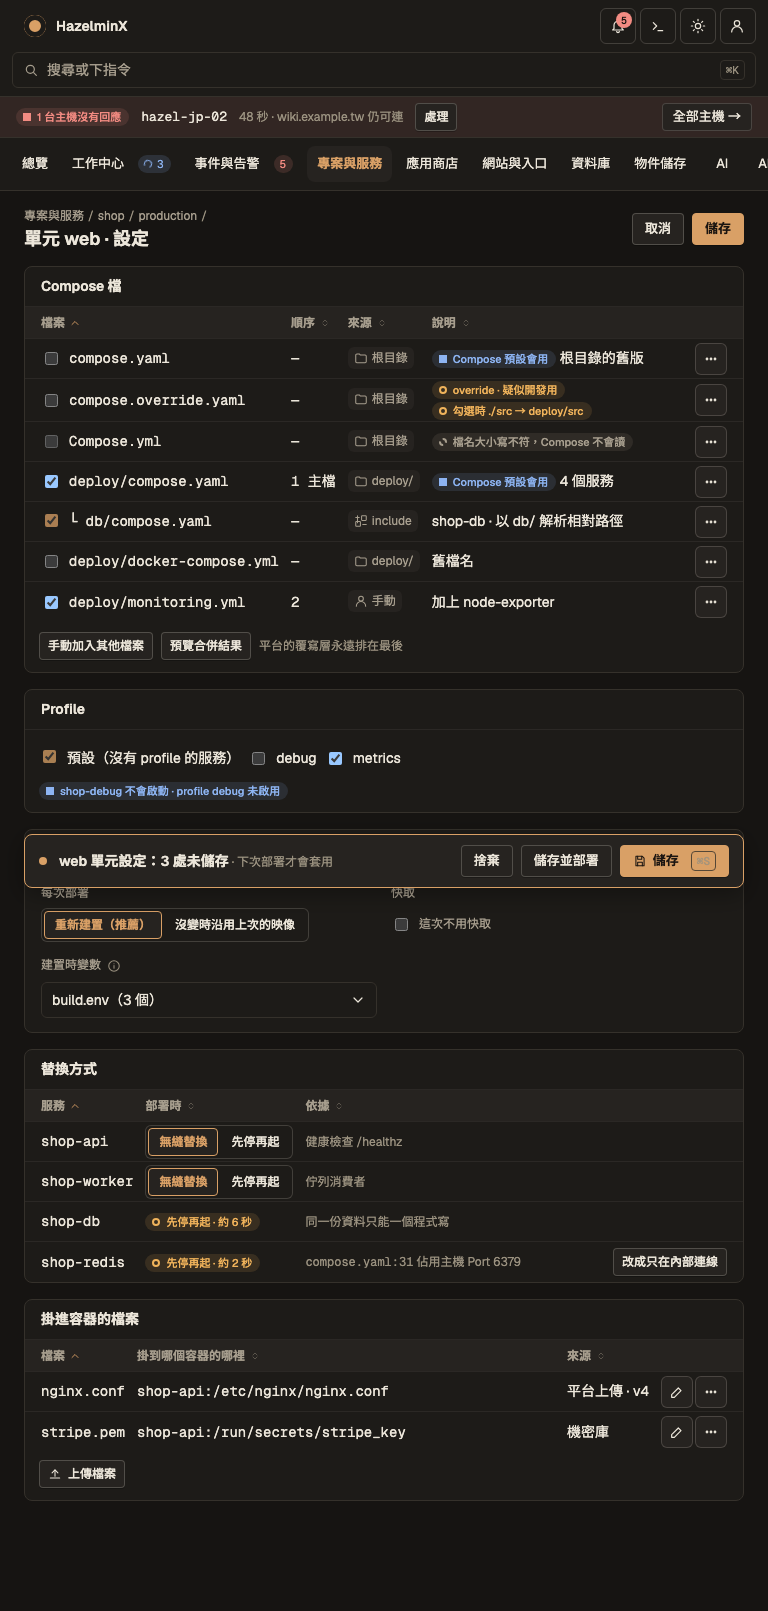
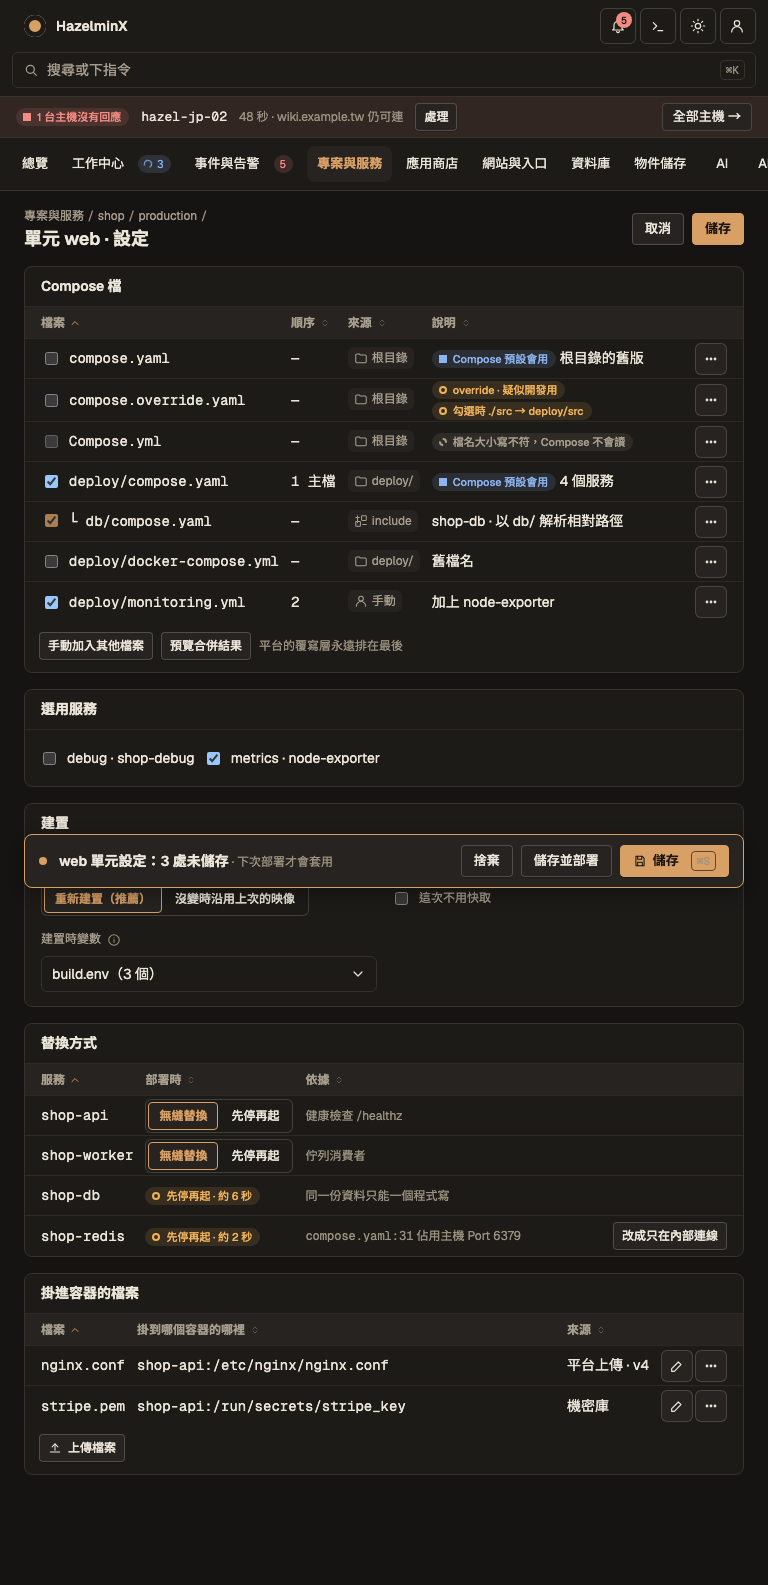
design: present Compose profiles as optional services

diff --git a/design/screens/UnitConfig.dc.html b/design/screens/UnitConfig.dc.html
@@ -505,10 +505,9 @@ body{margin:0}
       <div class="row r0"><span class="wrap" style="flex-wrap:nowrap"><span tabindex="0" data-tip="隨主檔一起載入，不能單獨取消"><input type="checkbox" class="lockck" checked aria-disabled="true" tabindex="-1" aria-label="└ db/compose.yaml：隨主檔一起載入，不能單獨取消"></span><span class="mono">└ db/compose.yaml</span></span><span class="mono">—</span><span><span class="at " tabindex="0" role="img" aria-label="由 deploy/compose.yaml 的 include 帶入，不能另外勾選" data-tip="由 deploy/compose.yaml 的 include 帶入，不能另外勾選"><svg viewBox="0 0 24 24" width="14" height="14" fill="none" stroke="currentColor" stroke-width="1.8" stroke-linecap="round" stroke-linejoin="round" aria-hidden="true"><path d="M6 3v12M3 6h6M15 18h6"/><rect x="13" y="3" width="8" height="8" rx="1"/><rect x="3" y="13" width="8" height="8" rx="1"/></svg><span>include</span></span></span><span class="c3">shop-db · 以 db/ 解析相對路徑</span><span><span class="acts"><button type="button" class="ib" aria-label="更多" title="更多"><svg viewBox="0 0 24 24" width="16" height="16" fill="none" stroke="currentColor" stroke-width="1.8" stroke-linecap="round" stroke-linejoin="round" aria-hidden="true"><circle cx="6" cy="12" r="1.2"/><circle cx="12" cy="12" r="1.2"/><circle cx="18" cy="12" r="1.2"/></svg></button></span></span></div>
       <div class="row r0"><span class="wrap" style="flex-wrap:nowrap"><input type="checkbox" aria-label="使用 deploy/docker-compose.yml"><span class="mono">deploy/docker-compose.yml</span></span><span class="mono">—</span><span><span class="at " tabindex="0" role="img" aria-label="掃描到 · deploy/" data-tip="掃描到 · deploy/"><svg viewBox="0 0 24 24" width="14" height="14" fill="none" stroke="currentColor" stroke-width="1.8" stroke-linecap="round" stroke-linejoin="round" aria-hidden="true"><path d="M3 7a2 2 0 0 1 2-2h4l2 2h8a2 2 0 0 1 2 2v9a2 2 0 0 1-2 2H5a2 2 0 0 1-2-2V7z"/></svg><span>deploy/</span></span></span><span class="c3">舊檔名</span><span><span class="acts"><button type="button" class="ib" aria-label="更多" title="更多"><svg viewBox="0 0 24 24" width="16" height="16" fill="none" stroke="currentColor" stroke-width="1.8" stroke-linecap="round" stroke-linejoin="round" aria-hidden="true"><circle cx="6" cy="12" r="1.2"/><circle cx="12" cy="12" r="1.2"/><circle cx="18" cy="12" r="1.2"/></svg></button></span></span></div>
       <div class="row r0"><span class="wrap" style="flex-wrap:nowrap"><input type="checkbox" checked aria-label="使用 deploy/monitoring.yml"><span class="mono">deploy/monitoring.yml</span></span><span class="mono">2</span><span><span class="at " tabindex="0" role="img" aria-label="手動加入 · 檔名不在 Compose 預設的 8 個裡，掃描不會找到" data-tip="手動加入 · 檔名不在 Compose 預設的 8 個裡，掃描不會找到"><svg viewBox="0 0 24 24" width="14" height="14" fill="none" stroke="currentColor" stroke-width="1.8" stroke-linecap="round" stroke-linejoin="round" aria-hidden="true"><circle cx="12" cy="8" r="4"/><path d="M4 21a8 8 0 0 1 16 0"/></svg><span>手動</span></span></span><span class="c3">加上 node-exporter</span><span><span class="acts"><button type="button" class="ib" aria-label="更多" title="更多"><svg viewBox="0 0 24 24" width="16" height="16" fill="none" stroke="currentColor" stroke-width="1.8" stroke-linecap="round" stroke-linejoin="round" aria-hidden="true"><circle cx="6" cy="12" r="1.2"/><circle cx="12" cy="12" r="1.2"/><circle cx="18" cy="12" r="1.2"/></svg></button></span></span></div></div>
-      <div style="padding:10px 14px 12px" class="wrap"><button type="button" class="btn sm">手動加入其他檔案</button><button type="button" class="btn sm">預覽合併結果</button><span class="note">平台的覆寫層永遠排在最後</span></div></section><div class="cg"><section class="panel"><div class="ph"><h2>Profile</h2></div>
+      <div style="padding:10px 14px 12px" class="wrap"><button type="button" class="btn sm">手動加入其他檔案</button><button type="button" class="btn sm">預覽合併結果</button><span class="note">平台的覆寫層永遠排在最後</span></div></section><div class="cg"><section class="panel"><div class="ph"><h2>選用服務</h2></div>
       <div style="padding:12px 14px;display:flex;flex-direction:column;gap:8px">
-        <div class="wrap"><label style="display:flex;gap:8px;align-items:center;min-height:32px"><span tabindex="0" data-tip="沒有 profile 的服務一定會啟動"><input type="checkbox" class="lockck" checked aria-disabled="true" tabindex="-1" aria-label="預設（沒有 profile 的服務）（沒有 profile 的服務一定會啟動）"></span>預設（沒有 profile 的服務）</label><label style="display:flex;gap:8px;align-items:center;min-height:32px"><input type="checkbox">debug</label><label style="display:flex;gap:8px;align-items:center;min-height:32px"><input type="checkbox" checked>metrics</label></div>
-        <div class="wrap"><span class="st info"><i aria-hidden="true"></i>shop-debug 不會啟動 · profile debug 未啟用</span></div>
+        <div class="wrap"><label style="display:flex;gap:8px;align-items:center;min-height:32px"><input type="checkbox">debug · shop-debug</label><label style="display:flex;gap:8px;align-items:center;min-height:32px"><input type="checkbox" checked>metrics · node-exporter</label></div>
       </div></section><section class="panel"><div class="ph"><h2>建置</h2></div><div style="padding:14px 16px;display:grid;grid-template-columns:repeat(auto-fit,minmax(min(240px,100%),1fr));gap:14px"><div class="field"><label>每次部署</label><div class="range" role="group" aria-label="建置" style="flex-wrap:wrap"><button type="button" class="btn on" aria-pressed="true">重新建置（推薦）</button><button type="button" class="btn" aria-pressed="false">沒變時沿用上次的映像</button></div></div><div class="field"><label>快取</label><label style="display:flex;gap:8px;align-items:center;min-height:32px"><input type="checkbox">這次不用快取</label></div><div class="field"><label>建置時變數 <span class="hint" tabindex="0" role="img" aria-label="以 build args 提供，不會進到執行中的容器" data-tip="以 build args 提供，不會進到執行中的容器"><svg viewBox="0 0 24 24" width="14" height="14" fill="none" stroke="currentColor" stroke-width="1.8" stroke-linecap="round" stroke-linejoin="round" aria-hidden="true"><circle cx="12" cy="12" r="9"/><path d="M12 11v5M12 8h.01"/></svg></span></label><div class="inp"><span style="flex:1;min-width:0;overflow-wrap:anywhere">build.env（3 個）</span><svg viewBox="0 0 24 24" width="16" height="16" fill="none" stroke="currentColor" stroke-width="1.8" stroke-linecap="round" stroke-linejoin="round" aria-hidden="true"><path d="m6 9 6 6 6-6"/></svg></div></div></div></section></div><section class="panel"><div class="ph"><h2>替換方式</h2></div>
       <div class="tw" style="--tc:auto auto var(--k3,minmax(min(160px,34%),1fr)) auto"><div class="row hd r0"><span class=""><span class="sortable on">服務 <svg viewBox="0 0 24 24" width="12" height="12" fill="none" stroke="currentColor" stroke-width="1.8" stroke-linecap="round" stroke-linejoin="round" aria-hidden="true"><path d="m6 15 6-6 6 6"/></svg></span></span><span class=""><span class="sortable">部署時 <svg viewBox="0 0 24 24" width="12" height="12" fill="none" stroke="currentColor" stroke-width="1.8" stroke-linecap="round" stroke-linejoin="round" aria-hidden="true"><path d="m8 10 4-4 4 4"/><path d="m8 14 4 4 4-4"/></svg></span></span><span class="c3"><span class="sortable">依據 <svg viewBox="0 0 24 24" width="12" height="12" fill="none" stroke="currentColor" stroke-width="1.8" stroke-linecap="round" stroke-linejoin="round" aria-hidden="true"><path d="m8 10 4-4 4 4"/><path d="m8 14 4 4 4-4"/></svg></span></span><span class=""></span></div>
       <div class="row r0"><span class="mono">shop-api</span><span><div class="range" role="group" aria-label="shop-api" style="flex-wrap:wrap"><button type="button" class="btn on" aria-pressed="true">無縫替換</button><button type="button" class="btn" aria-pressed="false">先停再起</button></div></span><span class="c3 note">健康檢查 /healthz</span><span></span></div>

diff --git a/design/tools/build_screens.py b/design/tools/build_screens.py
@@ -4397,11 +4397,10 @@ def unit_config() -> str:
       {f("deploy/monitoring.yml", True, "2", manual, "加上 node-exporter")}
       <div style="padding:10px 14px 12px" class="wrap"><button type="button" class="btn sm">手動加入其他檔案</button><button type="button" class="btn sm">預覽合併結果</button><span class="note">平台的覆寫層永遠排在最後</span></div>""",
       sub="掃描整個 repo 的 compose.yaml、compose.yml、docker-compose.yml、docker-compose.yaml 與對應的 override 檔；一定要指定主檔")
-    prof = _fp("Profile", f"""
+    prof = _fp("選用服務", f"""
       <div style="padding:12px 14px;display:flex;flex-direction:column;gap:8px">
-        <div class="wrap">{_cb("預設（沒有 profile 的服務）", True, locked="沒有 profile 的服務一定會啟動")}{_cb("debug", False)}{_cb("metrics", True)}</div>
-        <div class="wrap">{U.status("info", "shop-debug 不會啟動 · profile debug 未啟用")}</div>
-      </div>""")
+        <div class="wrap">{_cb("debug · shop-debug", False)}{_cb("metrics · node-exporter", True)}</div>
+      </div>""", sub="compose 裡標了 profile 的服務，勾了才會啟動；其他服務一律啟動")
     swap = _fp("替換方式", f"""
       <div class="row hd"><span>服務</span><span>部署時</span><span class="c3">依據</span><span></span></div>
       <div class="row"><span class="mono">shop-api</span><span>{_seg(["無縫替換", "先停再起"], 0, "shop-api")}</span><span class="c3 note">健康檢查 /healthz</span><span></span></div>
